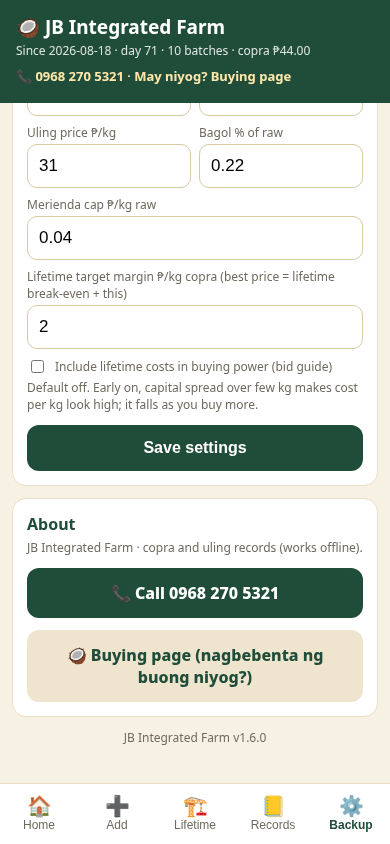
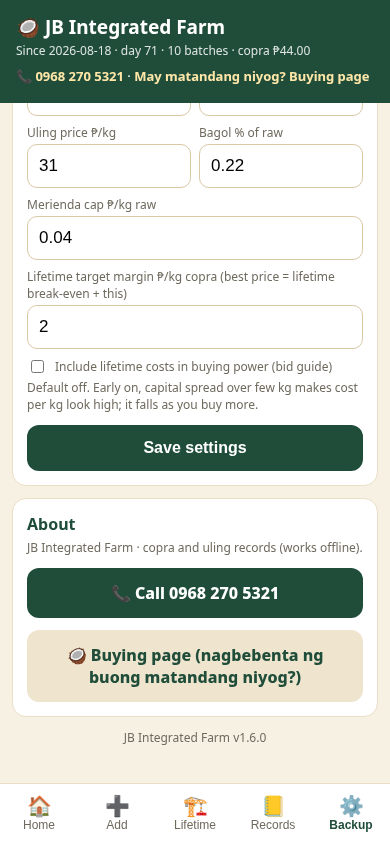
v1.6.0 /buying: matandang niyog wording, neutral FAQ, pickup 200 kg+ only

diff --git a/buying/index.html b/buying/index.html
@@ -4,13 +4,13 @@
 <meta charset="utf-8">
 <meta name="viewport" content="width=device-width,initial-scale=1,viewport-fit=cover">
 <title>Magbenta ng Buong Niyog sa JB Integrated Farm | Tawag 0968 270 5321</title>
-<meta name="description" content="Bumibili kami ng buong niyog na matured. Kami na ang gagawa ng kopra. Bayad ka sa araw ng bentahan. 200 kg pataas, kukunin namin sa inyong lugar. Tawag 0968 270 5321.">
+<meta name="description" content="Bumibili kami ng buong matandang niyog. Kami na ang gagawa ng kopra. Bayad ka sa araw ng bentahan. 200 kg pataas, kukunin namin sa inyong lugar. Tawag 0968 270 5321.">
 <link rel="canonical" href="https://copra.johnnybodegas.com/buying">
 <meta name="theme-color" content="#1f4d3a">
 <meta property="og:type" content="website">
 <meta property="og:site_name" content="JB Integrated Farm">
 <meta property="og:title" content="Magbenta ng Buong Niyog sa JB Integrated Farm">
-<meta property="og:description" content="Bumibili kami ng buong niyog na matured. Bayad sa araw ng bentahan. Tawag 0968 270 5321.">
+<meta property="og:description" content="Bumibili kami ng buong matandang niyog. Bayad sa araw ng bentahan. Tawag 0968 270 5321.">
 <meta property="og:url" content="https://copra.johnnybodegas.com/buying">
 <meta property="og:image" content="https://copra.johnnybodegas.com/buying/og.png">
 <meta property="og:image:width" content="1200">
@@ -18,7 +18,7 @@
 <meta property="og:locale" content="tl_PH">
 <meta name="twitter:card" content="summary_large_image">
 <meta name="twitter:title" content="Magbenta ng Buong Niyog sa JB Integrated Farm">
-<meta name="twitter:description" content="Bumibili kami ng buong niyog na matured. Bayad sa araw ng bentahan. Tawag 0968 270 5321.">
+<meta name="twitter:description" content="Bumibili kami ng buong matandang niyog. Bayad sa araw ng bentahan. Tawag 0968 270 5321.">
 <meta name="twitter:image" content="https://copra.johnnybodegas.com/buying/og.png">
 <link rel="icon" href="../icons/icon-192.png">
 <script type="application/ld+json">
@@ -34,7 +34,7 @@
 "name": "Anong klase ng niyog ang binibili ninyo?",
 "acceptedAnswer": {
 "@type": "Answer",
-"text": "Buong niyog na matured, yung matanda na at hinog na hinog. Hindi pa tinatapahan, buo pa. Kung hindi ka sigurado, tawagan kami para ma-confirm kung pasok ang niyog ninyo."
+"text": "Buong matandang niyog. Kung hindi ka sigurado, tawagan kami para ma-confirm kung pasok ang niyog ninyo."
 }
 },
 {
@@ -42,7 +42,7 @@
 "name": "Kailangan ko pa bang gawing kopra?",
 "acceptedAnswer": {
 "@type": "Answer",
-"text": "Hindi na po. Kami na ang bahala sa pagbabalat, pagbiyak at pagpapatuyo. Ibenta mo lang ang buong niyog."
+"text": "Hindi na po. Kami na ang bahala sa kopra. Ibenta mo lang ang buong matandang niyog."
 }
 },
 {
@@ -74,7 +74,7 @@
 "name": "Paano kung wala pang 200 kg?",
 "acceptedAnswer": {
 "@type": "Answer",
-"text": "Tawag lang po, pag-usapan natin ang pinakamainam."
+"text": "Tawag lang po para pag-usapan."
 }
 },
 {
@@ -160,12 +160,12 @@ footer{text-align:center;color:var(--m);font-size:14px;padding:22px 0 30px}
 <header class="top"><div class="wrap"><a class="brand" href="#"><i class="dot"></i>JB Integrated Farm</a><a class="tel" href="tel:+639682705321">📞 0968 270 5321</a></div></header>
 
 <div class="hero"><div class="wrap">
- <span class="tag">🥥 Bumibili kami ng buong niyog (matured)</span>
+ <span class="tag">🥥 Bumibili kami ng buong matandang niyog</span>
  <h1>May niyog ka? Ibenta mo nang buo sa JB Integrated Farm.</h1>
  <p class="lead" id="tagline">Iwan mo na sa amin ang hassle, kami na ang gagawa ng kopra. Bayad ka sa araw ng bentahan.</p>
  <div class="ctas">
   <a class="big call" href="tel:+639682705321">📞 Tawag: 0968 270 5321</a>
-  <a class="big sms" href="sms:+639682705321?body=Magandang%20araw%20po%2C%20magbebenta%20po%20ako%20ng%20buong%20niyog%20%28matured%29.%20Ilang%20kilo%3A%20__%20.%20Lugar%3A%20__">💬 Mag-text para sa presyo</a>
+  <a class="big sms" href="sms:+639682705321?body=Magandang%20araw%20po%2C%20magbebenta%20po%20ako%20ng%20buong%20matandang%20niyog.%20Ilang%20kilo%3A%20__%20.%20Lugar%3A%20__">💬 Mag-text para sa presyo</a>
  </div>
  <p class="note">200 kg pataas? Kukunin namin sa inyong lugar. Tawag lang para ma-schedule.</p>
 </div></div>
@@ -184,8 +184,8 @@ footer{text-align:center;color:var(--m);font-size:14px;padding:22px 0 30px}
 
 <section class="alt"><div class="wrap">
  <p class="kick">Ano ang binibili namin</p>
- <h2>Buong niyog na matured</h2>
- <p class="sub">Yung matanda na at hinog na hinog na niyog, buo pa at hindi pa tinatapahan. Hindi sigurado kung pasok ang niyog mo? Tawagan kami para ma-confirm kung pasok ang niyog ninyo.</p>
+ <h2>Buong matandang niyog</h2>
+ <p class="sub">Buong matandang niyog. Hindi sigurado kung pasok ang niyog mo? Tawagan kami para ma-confirm kung pasok ang niyog ninyo.</p>
  <div class="price" id="price">
   <div class="kick">Presyo ng niyog</div>
   <div class="pv" id="pv" hidden></div>
@@ -200,7 +200,7 @@ footer{text-align:center;color:var(--m);font-size:14px;padding:22px 0 30px}
  <p class="sub">Walang komplikado.</p>
  <div class="grid g4">
   <div class="card step"><span class="num">1</span><h3>Tawag o text</h3><p>Sabihin ang dami at lugar.</p></div>
-  <div class="card step"><span class="num">2</span><h3>Usapan</h3><p>Pag-usapan ang presyo at kung pickup o dala.</p></div>
+  <div class="card step"><span class="num">2</span><h3>Usapan</h3><p>Pag-usapan ang presyo. 200 kg pataas, pickup sa inyong lugar.</p></div>
   <div class="card step"><span class="num">3</span><h3>Bentahan</h3><p>Bentahan at bayad sa araw na iyon.</p></div>
   <div class="card step"><span class="num">4</span><h3>Kami na ang bahala</h3><p>Kami na ang bahala sa kopra.</p></div>
  </div>
@@ -211,8 +211,8 @@ footer{text-align:center;color:var(--m);font-size:14px;padding:22px 0 30px}
  <h2>Ihanda ang niyog mo</h2>
  <p class="sub">Simpleng tips lang.</p>
  <ul class="tips">
-  <li><b>Piliin ang matured na niyog.</b> Yung matanda na at buo pa.</li>
-  <li><b>Ipunin sa isang lugar.</b> Para mas mabilis ang kuha o dala.</li>
+  <li><b>Piliin ang matandang niyog.</b> Buo pa.</li>
+  <li><b>Ipunin sa isang lugar.</b> Para mas mabilis ang usapan at pickup.</li>
   <li><b>Sabihin ang tinatayang kilo.</b> Kahit tantya lang, para mabilis ang usapan.</li>
  </ul>
 </div></section>
@@ -231,34 +231,34 @@ footer{text-align:center;color:var(--m);font-size:14px;padding:22px 0 30px}
  <p class="kick">Mga tanong</p>
  <h2>Madalas itanong (FAQ)</h2>
  <div style="margin-top:14px">
-  <details><summary>Anong klase ng niyog ang binibili ninyo?</summary><p>Buong niyog na matured, yung matanda na at hinog na hinog. Hindi pa tinatapahan, buo pa. Kung hindi ka sigurado, tawagan kami para ma-confirm kung pasok ang niyog ninyo.</p></details>
-  <details><summary>Kailangan ko pa bang gawing kopra?</summary><p>Hindi na po. Kami na ang bahala sa pagbabalat, pagbiyak at pagpapatuyo. Ibenta mo lang ang buong niyog.</p></details>
+  <details><summary>Anong klase ng niyog ang binibili ninyo?</summary><p>Buong matandang niyog. Kung hindi ka sigurado, tawagan kami para ma-confirm kung pasok ang niyog ninyo.</p></details>
+  <details><summary>Kailangan ko pa bang gawing kopra?</summary><p>Hindi na po. Kami na ang bahala sa kopra. Ibenta mo lang ang buong matandang niyog.</p></details>
   <details><summary>Magkano ang bili ninyo?</summary><p>Nagbabago ang presyo ayon sa merkado. Tawag o text lang sa 0968 270 5321 para sa presyo ngayon.</p></details>
   <details><summary>Kailan ako mababayaran?</summary><p>Bayad ka sa araw ng bentahan.</p></details>
   <details><summary>Kukunin ba ninyo ang niyog sa amin?</summary><p>Oo po, kung 200 kg pataas, kukunin namin sa inyong lugar. Tawag lang para ma-schedule.</p></details>
-  <details><summary>Paano kung wala pang 200 kg?</summary><p>Tawag lang po, pag-usapan natin ang pinakamainam.</p></details>
+  <details><summary>Paano kung wala pang 200 kg?</summary><p>Tawag lang po para pag-usapan.</p></details>
   <details><summary>Ano ang kailangan kong sabihin pag tumawag ako?</summary><p>Ilang kilo ang niyog mo (kahit tantya lang) at saan ang lugar mo. Yun lang muna.</p></details>
   <details><summary>Paano kayo makokontak?</summary><p>Tawag o text sa 0968 270 5321. Pwede rin sa WhatsApp, parehong numero.</p></details>
  </div>
 </div></section>
 
 <section class="final"><div class="wrap">
- <h2>May matured na niyog ka? Tawag na!</h2>
+ <h2>May matandang niyog ka? Tawag na!</h2>
  <p class="sub">Iwan mo na sa amin ang hassle, kami na ang gagawa ng kopra. Bayad ka sa araw ng bentahan.</p>
  <div class="num-big"><a href="tel:+639682705321">0968 270 5321</a></div>
  <div class="ctas">
   <a class="big call" href="tel:+639682705321">📞 Tawag na</a>
-  <a class="big sms" href="sms:+639682705321?body=Magandang%20araw%20po%2C%20magbebenta%20po%20ako%20ng%20buong%20niyog%20%28matured%29.%20Ilang%20kilo%3A%20__%20.%20Lugar%3A%20__">💬 Mag-text</a>
+  <a class="big sms" href="sms:+639682705321?body=Magandang%20araw%20po%2C%20magbebenta%20po%20ako%20ng%20buong%20matandang%20niyog.%20Ilang%20kilo%3A%20__%20.%20Lugar%3A%20__">💬 Mag-text</a>
  </div>
  <p class="small" style="margin-top:16px">May Viber ka? <a href="viber://chat?number=%2B639682705321">Mag-message sa Viber</a> (kailangan ng Viber app).</p>
 </div></section>
 
-<footer><div class="wrap">JB Integrated Farm · <a href="tel:+639682705321">0968 270 5321</a><br><span class="small">Bumibili ng buong niyog na matured.</span></div></footer>
+<footer><div class="wrap">JB Integrated Farm · <a href="tel:+639682705321">0968 270 5321</a><br><span class="small">Bumibili ng buong matandang niyog.</span></div></footer>
 
 <nav class="bar" aria-label="Contact">
  <a class="b1" href="tel:+639682705321"><span>📞</span>Tawag</a>
- <a class="b2" href="sms:+639682705321?body=Magandang%20araw%20po%2C%20magbebenta%20po%20ako%20ng%20buong%20niyog%20%28matured%29.%20Ilang%20kilo%3A%20__%20.%20Lugar%3A%20__"><span>💬</span>Text</a>
- <a class="b3" href="https://wa.me/639682705321?text=Magandang%20araw%20po%2C%20magbebenta%20po%20ako%20ng%20buong%20niyog%20%28matured%29.%20Ilang%20kilo%3A%20__%20.%20Lugar%3A%20__" target="_blank" rel="noopener"><span>🟢</span>WhatsApp</a>
+ <a class="b2" href="sms:+639682705321?body=Magandang%20araw%20po%2C%20magbebenta%20po%20ako%20ng%20buong%20matandang%20niyog.%20Ilang%20kilo%3A%20__%20.%20Lugar%3A%20__"><span>💬</span>Text</a>
+ <a class="b3" href="https://wa.me/639682705321?text=Magandang%20araw%20po%2C%20magbebenta%20po%20ako%20ng%20buong%20matandang%20niyog.%20Ilang%20kilo%3A%20__%20.%20Lugar%3A%20__" target="_blank" rel="noopener"><span>🟢</span>WhatsApp</a>
 </nav>
 
 <script>

diff --git a/tests/brand.test.js b/tests/brand.test.js
@@ -11,7 +11,7 @@ test('user-visible name is JB Integrated Farm',()=>{const m=JSON.parse(rd('manif
 test('storage names kept for data carry-over',()=>{assert.ok(rd('db.js').includes("'kopra'"));assert.ok(rd('sw.js').includes("const V='kopra-'+SW_VERSION"));assert.ok(rd('app.js').includes("'kopra_sync'"))});
 test('phone links are correct everywhere',()=>{for(const f of ['index.html','app.js','buying/index.html']){const s=rd(f);const tels=s.match(/tel:[^"']+/g)||[];assert.ok(tels.length>0,f);tels.forEach(t=>assert.equal(t,'tel:+639682705321',f))}
   const b=rd('buying/index.html');(b.match(/sms:[^"?]+/g)).forEach(t=>assert.equal(t,'sms:+639682705321'));(b.match(/https:\/\/wa\.me\/[0-9]+/g)).forEach(t=>assert.equal(t,'https://wa.me/639682705321'));
-  assert.ok(b.includes('viber://chat?number=%2B639682705321'));const want='Magandang araw po, magbebenta po ako ng buong niyog (matured). Ilang kilo: __ . Lugar: __';[...b.matchAll(/(?:body|text)=([^"]+)/g)].forEach(m=>assert.equal(decodeURIComponent(m[1]),want))});
+  assert.ok(b.includes('viber://chat?number=%2B639682705321'));const want='Magandang araw po, magbebenta po ako ng buong matandang niyog. Ilang kilo: __ . Lugar: __';[...b.matchAll(/(?:body|text)=([^"]+)/g)].forEach(m=>assert.equal(decodeURIComponent(m[1]),want))});
 test('buying page SEO, JSON-LD and no price claim',()=>{const b=rd('buying/index.html');assert.ok(b.includes('<link rel="canonical" href="https://copra.johnnybodegas.com/buying">'));
   for(const k of ['og:title','og:description','og:image','twitter:card'])assert.ok(b.includes(k),k);
   const ld=[...b.matchAll(/<script type="application\/ld\+json">([\s\S]*?)<\/script>/g)].map(m=>JSON.parse(m[1]));const org=ld.find(x=>x['@type']==='Organization');assert.deepEqual(Object.keys(org).sort(),['@context','@type','name','telephone','url']);assert.equal(org.telephone,'+639682705321');
@@ -21,6 +21,6 @@ test('version consistency 1.6.0',()=>{const v=rd('version.js').match(/APP_VERSIO
 test('SW sends /buying to the network, never the app shell',()=>{const s=rd('sw.js');assert.ok(s.includes('isBuying(u)'));assert.ok(!/respondWith\([^)]*index\.html/.test(s))});
 test('buying offer: whole matured coconuts, tagline, 200 kg pickup, no dried copra claim',()=>{const b=rd('buying/index.html');
   assert.ok(b.includes('Iwan mo na sa amin ang hassle, kami na ang gagawa ng kopra. Bayad ka sa araw ng bentahan.'));
-  assert.ok(b.includes('200 kg pataas, kukunin namin sa inyong lugar'));assert.ok(/buong niyog/.test(b)&&/matured/.test(b));
+  assert.ok(b.includes('200 kg pataas, kukunin namin sa inyong lugar'));assert.ok(/buong matandang niyog/.test(b)&&!/matured|hinog na hinog|tinatapahan|pagbiyak|pagbabalat|\bdala\b|drop-off/i.test(b));
   assert.ok(!/dried copra|tuyong kopra|libre|free pickup/i.test(b));assert.ok(!/Tinitimbang sa harap|mismo ang sasagot|depende sa dami/i.test(b));
-  assert.ok(b.includes('Tawag lang po, pag-usapan natin ang pinakamainam.'));assert.ok(b.includes('Tawag para sa presyo ngayon'))});
+  assert.ok(b.includes('Tawag lang po para pag-usapan.')&&!b.includes('pinakamainam'));assert.ok(b.includes('Nagbabago ang presyo ayon sa merkado'));assert.ok(b.includes('Tawag para sa presyo ngayon'))});

diff --git a/app.js b/app.js
@@ -259,7 +259,7 @@ function renderMore(){const s=S(),c=cfg();
  <p class="sub" id="s_lbhelp">Default off. Early on, capital spread over few kg makes cost per kg look high; it falls as you buy more.</p><div class="note" id="s_err" style="display:none;background:#f8dcd5;border-color:#b5462f"></div><button class="btn" id="ss">Save settings</button></div>
  ${FLAGS?`<div class="card" id="synccard"><h2>Cloud sync (beta) ☁</h2><p class="sub">App works fully offline. Fill these in only when the Supabase project exists.</p>
  ${fld('c_url','Supabase URL',c.url||'','text')}${fld('c_key','Anon key',c.anonKey||'','text')}${fld('c_team','Team ID',c.teamId||'','text')}${fld('c_em','Email',c.user||'','email')}${fld('c_pw','Password','','password')}
- <button class="btn" id="cl">Sign in & sync now</button><p class="sub" id="cs" style="margin-top:8px">${c.accessToken?'Signed in as '+esc(c.user):'Not connected (offline only)'} · unsynced: <span id="cu"></span></p><div class="note" id="syncerr" style="display:none"></div></div>`:''}<div class="card" id="about"><h2>About</h2><p class="sub" style="margin:0 0 8px">JB Integrated Farm · copra and uling records (works offline).</p><a class="btn" href="tel:+639682705321" id="abtel">📞 Call 0968 270 5321</a><a class="btn sec" href="buying/" id="abbuy">🥥 Buying page (nagbebenta ng buong niyog?)</a></div><p class="sub" style="text-align:center">JB Integrated Farm v${typeof APP_VERSION!=='undefined'?APP_VERSION:'?'}</p>`;
+ <button class="btn" id="cl">Sign in & sync now</button><p class="sub" id="cs" style="margin-top:8px">${c.accessToken?'Signed in as '+esc(c.user):'Not connected (offline only)'} · unsynced: <span id="cu"></span></p><div class="note" id="syncerr" style="display:none"></div></div>`:''}<div class="card" id="about"><h2>About</h2><p class="sub" style="margin:0 0 8px">JB Integrated Farm · copra and uling records (works offline).</p><a class="btn" href="tel:+639682705321" id="abtel">📞 Call 0968 270 5321</a><a class="btn sec" href="buying/" id="abbuy">🥥 Buying page (nagbebenta ng buong matandang niyog?)</a></div><p class="sub" style="text-align:center">JB Integrated Farm v${typeof APP_VERSION!=='undefined'?APP_VERSION:'?'}</p>`;
  store.meta('lastSyncError').then(e=>{const x=$('#syncerr');if(x&&e){x.style.display='block';x.textContent='⚠ Last sync failed: '+e.message+' ('+e.at+')'}});
  FLAGS&&store.adapter.all('batches').then(async()=>{let n=0;for(const t of store.TABLES)n+=(await store.unsynced(t)).length;$('#cu').textContent=n});
  const dl=(name,txt,type)=>{const a=document.createElement('a');a.href=URL.createObjectURL(new Blob([txt],{type}));a.download=name;a.click()};

diff --git a/index.html b/index.html
@@ -1,7 +1,7 @@
 <!DOCTYPE html><html lang="en"><head><meta charset="utf-8"><meta name="viewport" content="width=device-width,initial-scale=1,viewport-fit=cover">
 <title>JB Integrated Farm</title><meta name="description" content="JB Integrated Farm copra and uling records. Works offline."><meta name="application-name" content="JB Integrated Farm"><meta name="apple-mobile-web-app-title" content="JB Farm"><meta name="theme-color" content="#1f4d3a"><link rel="manifest" href="manifest.webmanifest"><link rel="icon" href="icons/icon-192.png"><link rel="apple-touch-icon" href="icons/icon-192.png">
 <link rel="stylesheet" href="style.css"></head><body>
-<header><h1>🥥 JB Integrated Farm</h1><p id="hdr">Copra + uling trading · offline</p><p class="hcall"><a href="tel:+639682705321" id="hdrtel">📞 0968 270 5321</a> · <a href="buying/" id="hdrbuy">May niyog? Buying page</a></p></header>
+<header><h1>🥥 JB Integrated Farm</h1><p id="hdr">Copra + uling trading · offline</p><p class="hcall"><a href="tel:+639682705321" id="hdrtel">📞 0968 270 5321</a> · <a href="buying/" id="hdrbuy">May matandang niyog? Buying page</a></p></header>
 <main>
 <section class="view on" id="v-home"></section>
 <section class="view" id="v-add">
